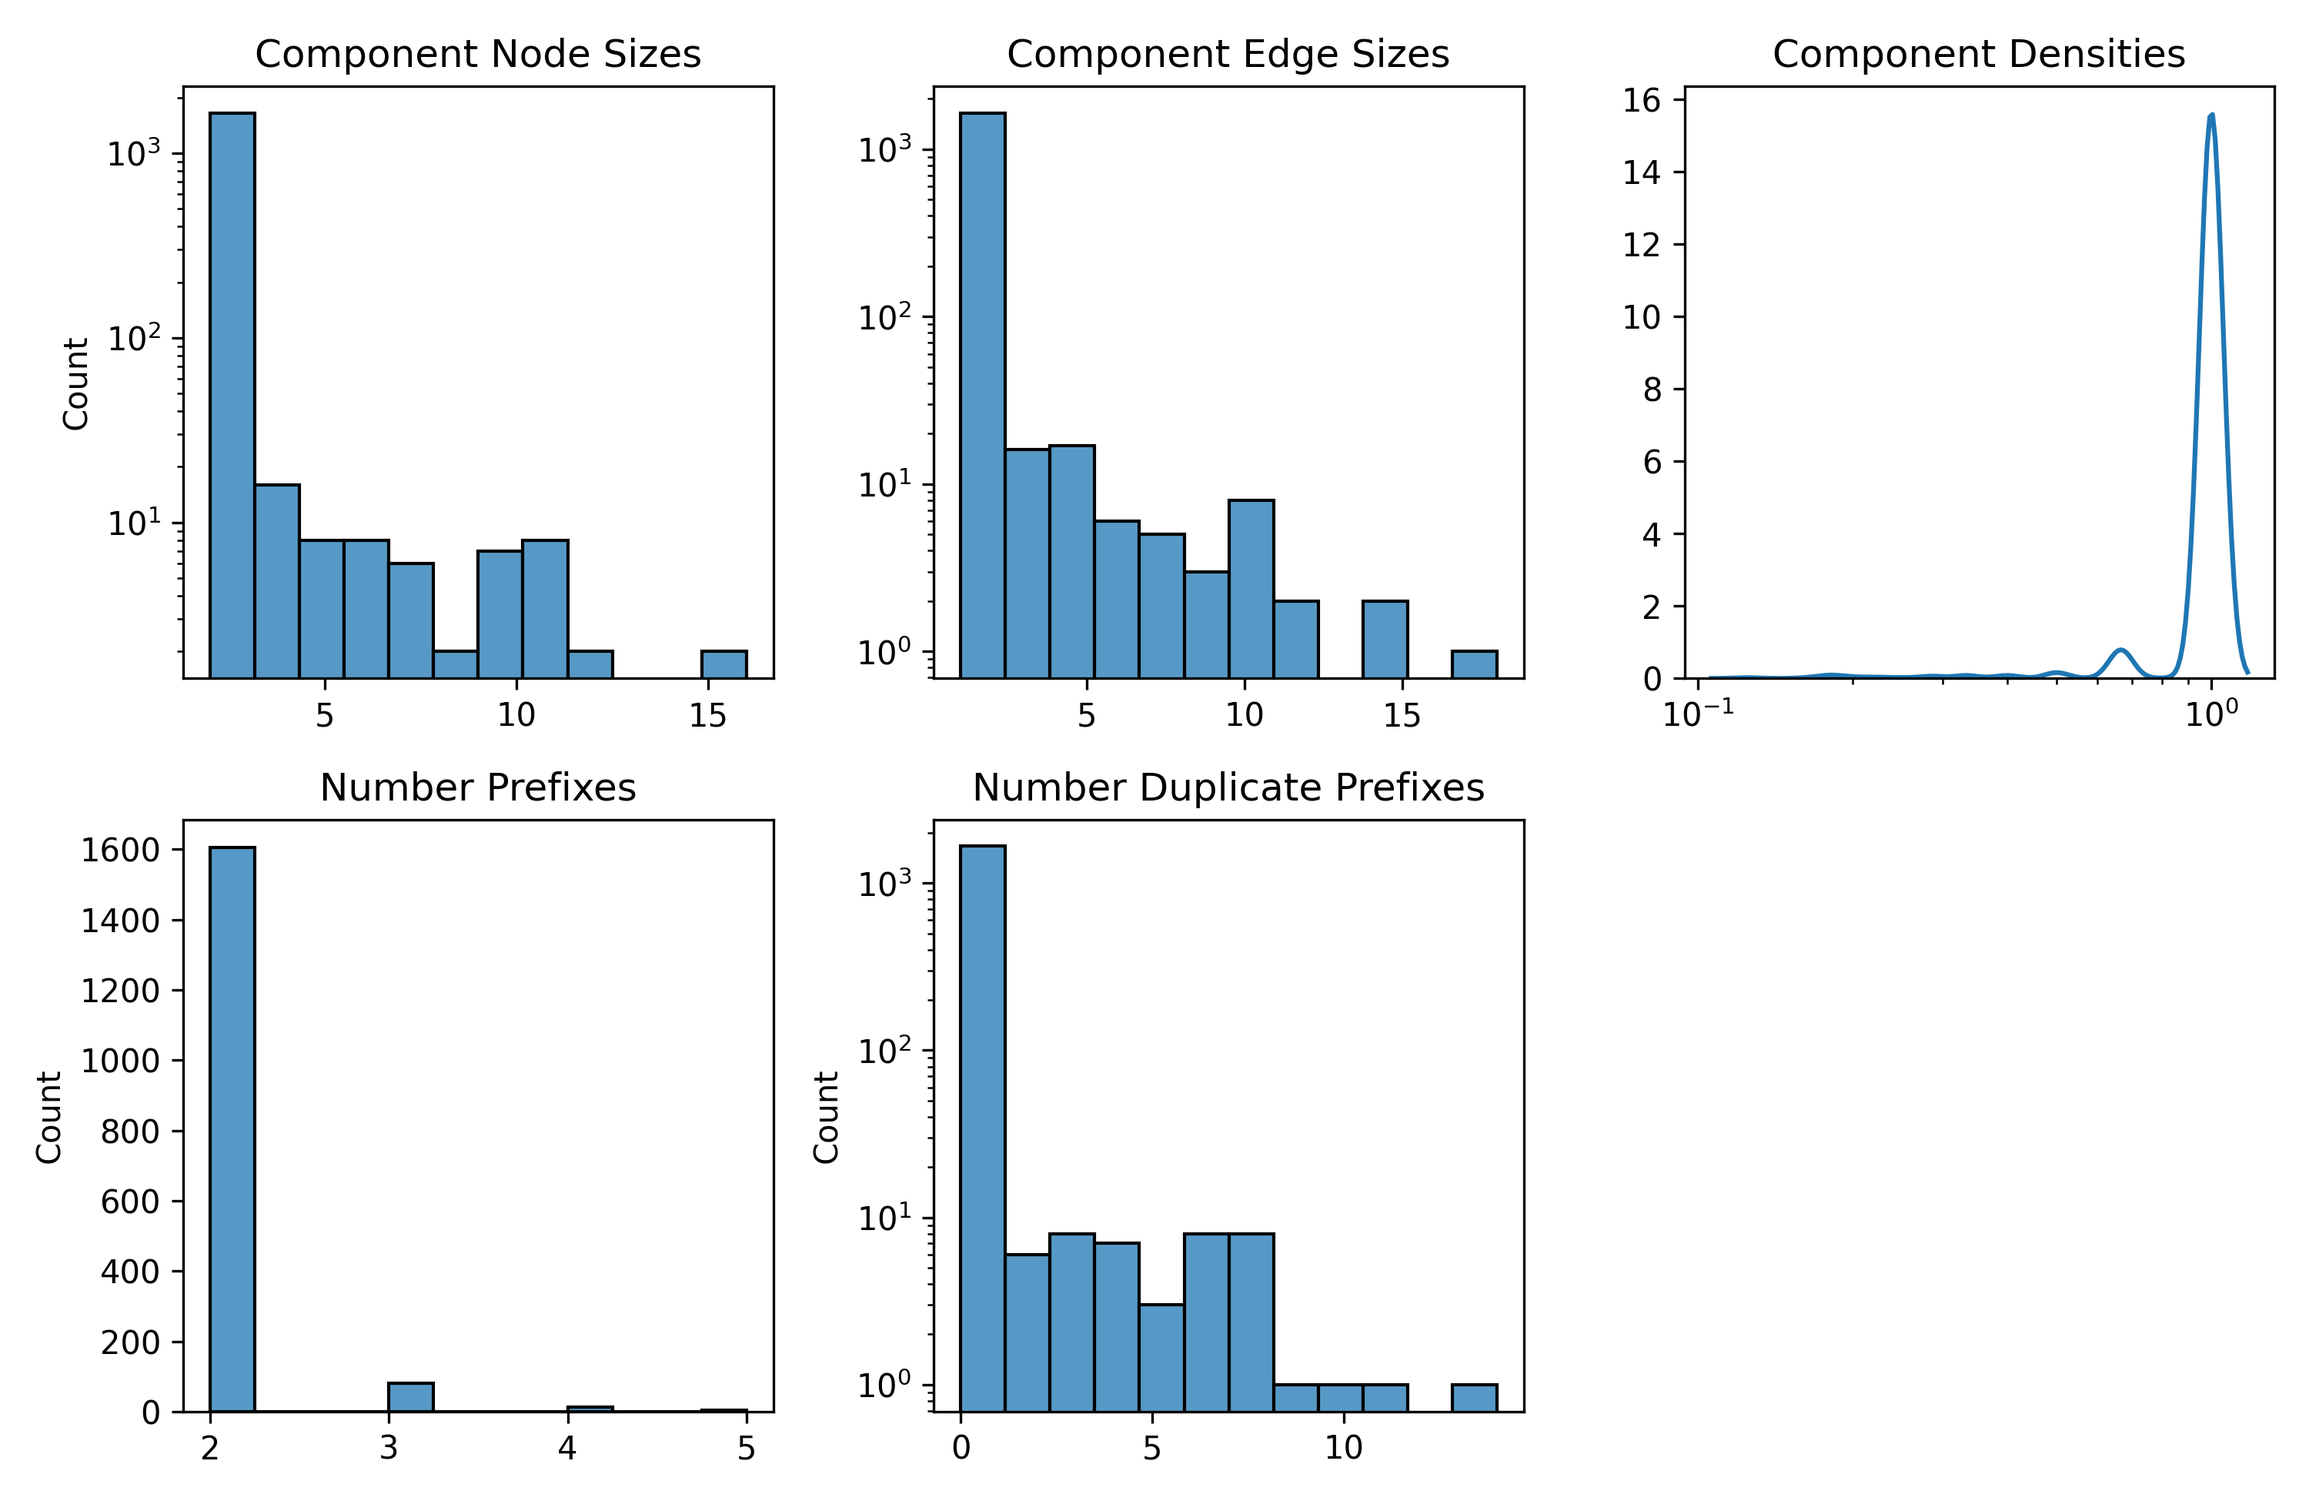
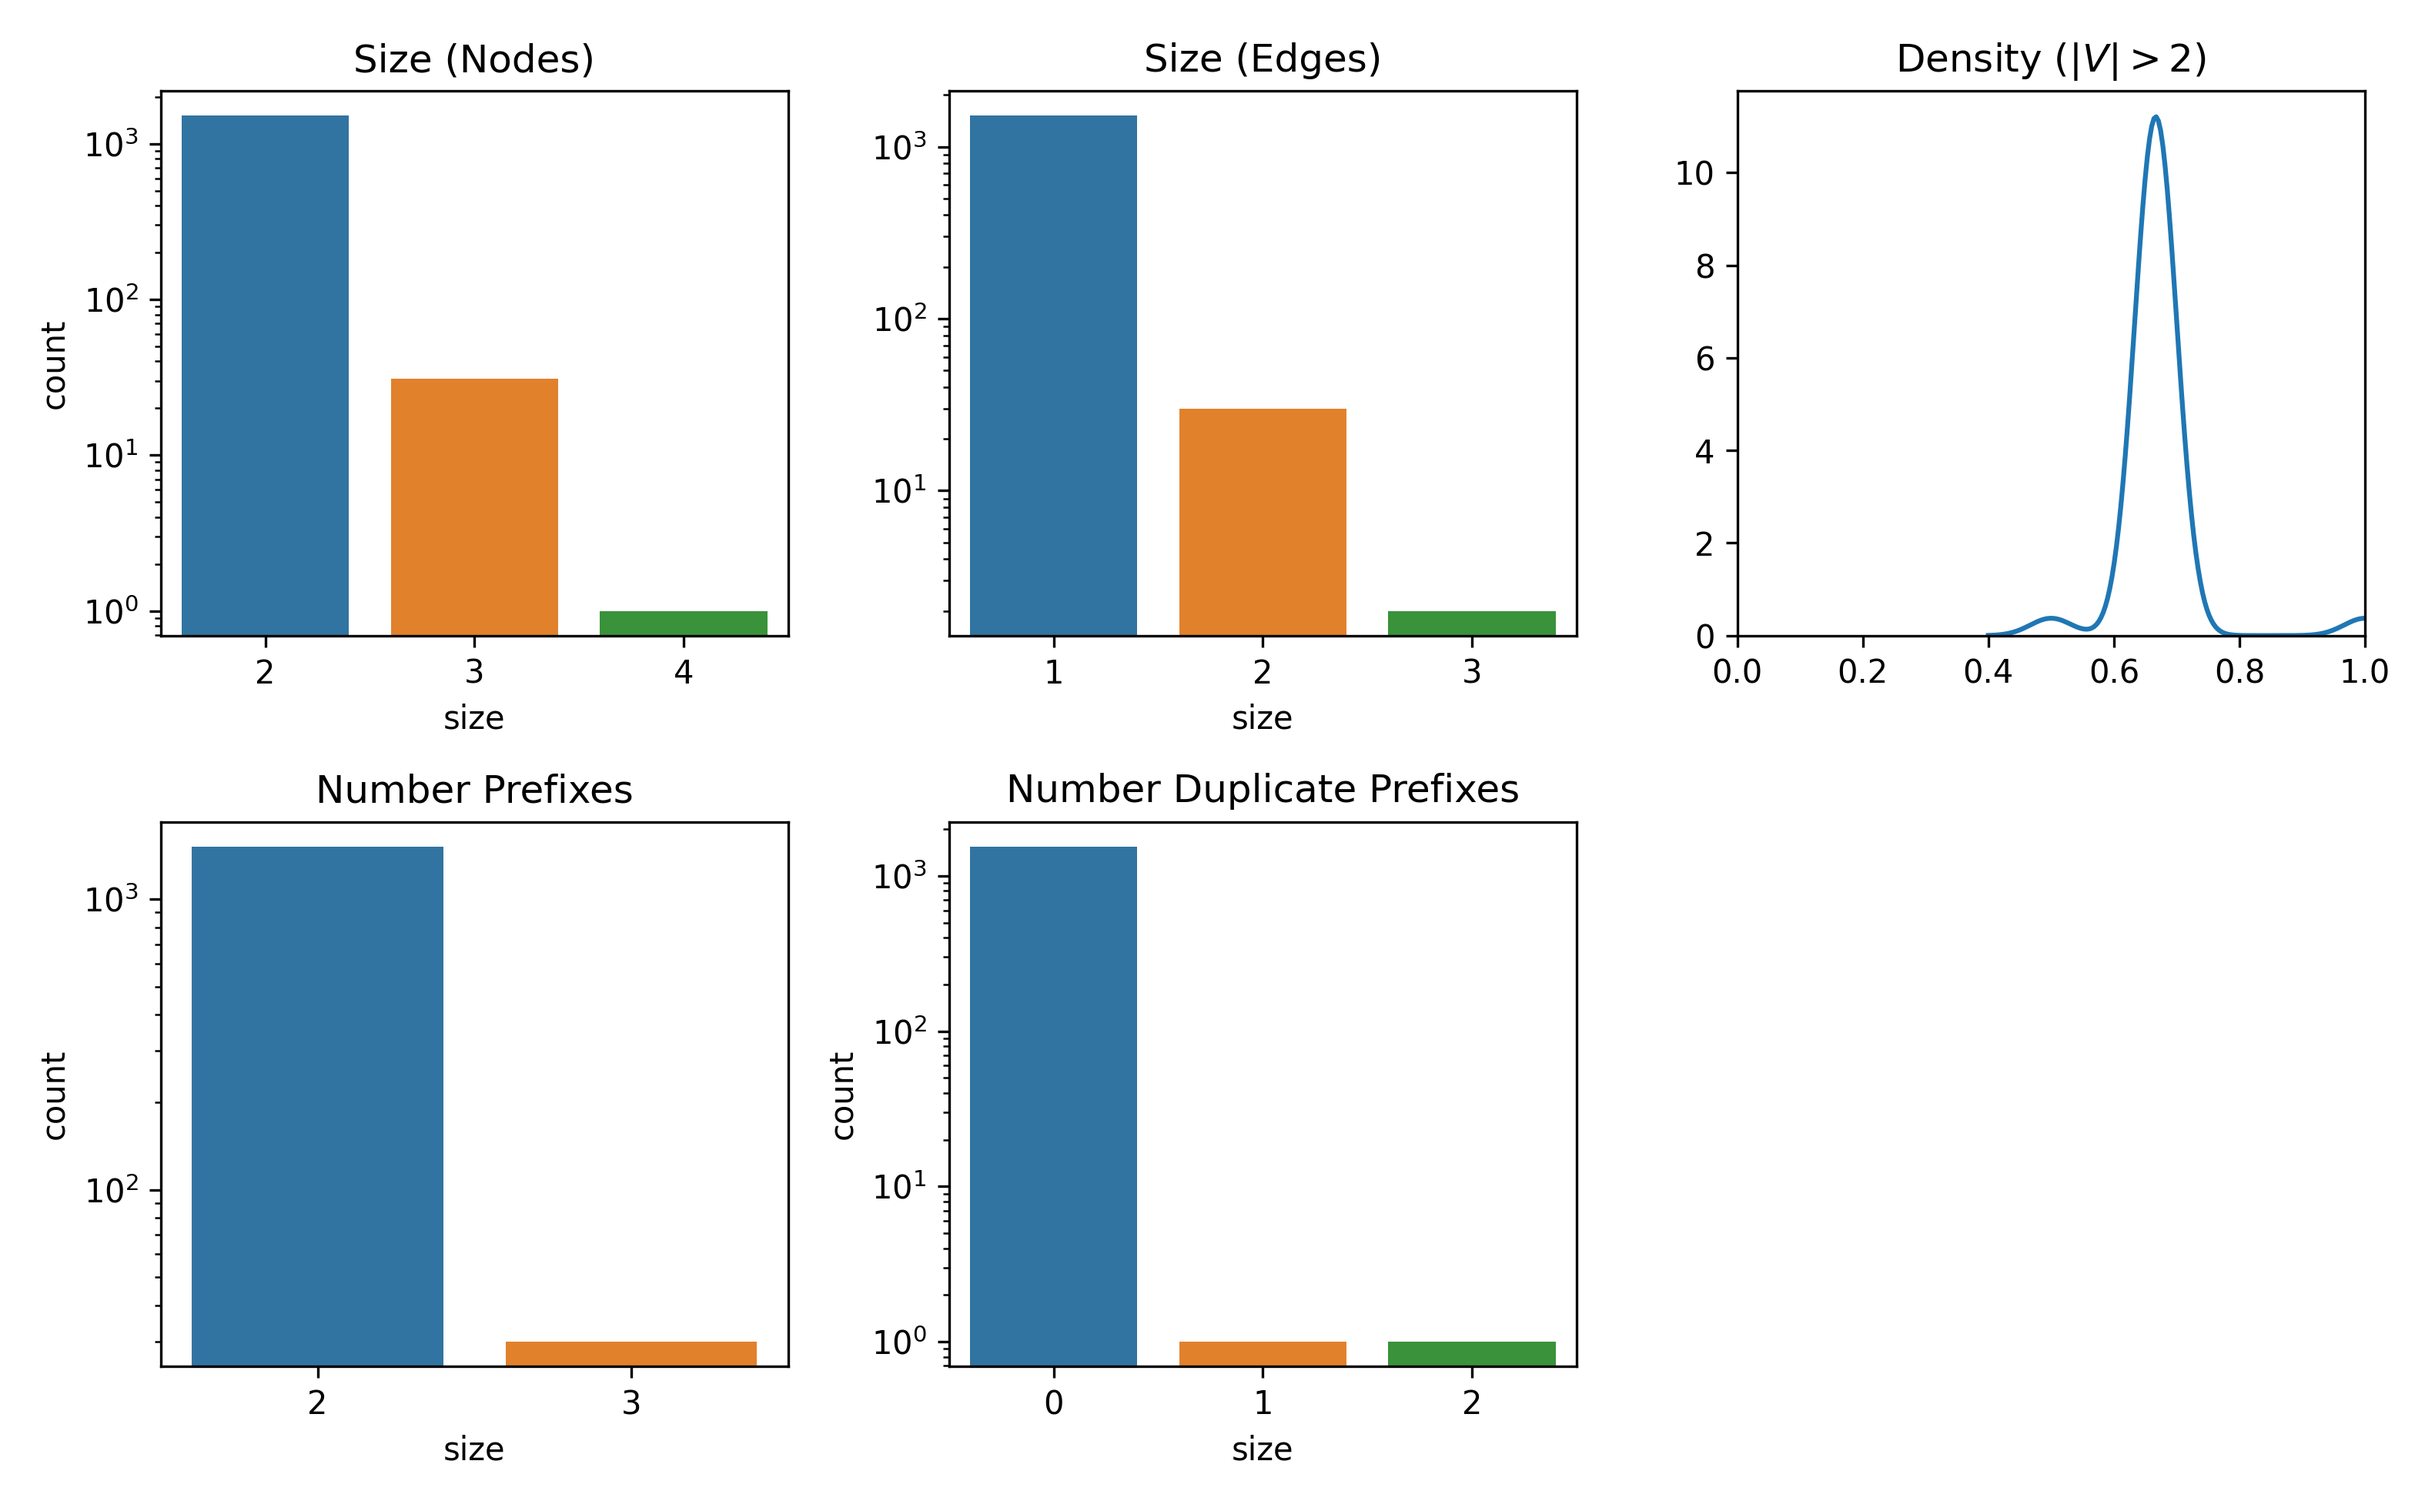
Update export script

Changed region(s): [[0.0, 0.0308, 0.651, 0.9846], [0.682, 0.0308, 0.992, 0.4923], [0.868, 0.0923, 0.899, 0.2462]]

diff --git a/src/biomappings/graph.py b/src/biomappings/graph.py
@@ -3,34 +3,54 @@
 """Load Biomappings as a graph."""
 
 import os
-from typing import Iterable, Mapping
+from collections import Counter
+from typing import Iterable, List, Mapping, Optional, Sequence
 
 import click
 import networkx as nx
+import yaml
 
 from biomappings.resources import load_false_mappings, load_mappings
-from biomappings.utils import IMG, MiriamValidator
+from biomappings.utils import DATA, IMG, MiriamValidator
 
 
-def get_true_graph() -> nx.Graph:
+def get_true_graph(include: Optional[Sequence[str]] = None, exclude: Optional[Sequence[str]] = None) -> nx.Graph:
     """Get a graph of the true mappings."""
-    return _graph_from_mappings(load_mappings())
+    return _graph_from_mappings(load_mappings(), include=include, exclude=exclude)
 
 
-def get_false_graph() -> nx.Graph:
+def get_false_graph(include: Optional[Sequence[str]] = None, exclude: Optional[Sequence[str]] = None) -> nx.Graph:
     """Get a graph of the false mappings."""
-    return _graph_from_mappings(load_false_mappings())
+    return _graph_from_mappings(load_false_mappings(), include=include, exclude=exclude)
 
 
-def get_predictions_graph() -> nx.Graph:
+def get_predictions_graph(include: Optional[Sequence[str]] = None, exclude: Optional[Sequence[str]] = None) -> nx.Graph:
     """Get a graph of the predicted mappings."""
-    return _graph_from_mappings(load_false_mappings())
+    return _graph_from_mappings(load_false_mappings(), include=include, exclude=exclude)
 
 
-def _graph_from_mappings(mappings: Iterable[Mapping[str, str]]) -> nx.Graph:
+def _graph_from_mappings(
+    mappings: Iterable[Mapping[str, str]],
+    include: Optional[Sequence[str]] = None,
+    exclude: Optional[Sequence[str]] = None,
+) -> nx.Graph:
     v = MiriamValidator()
     graph = nx.Graph()
+
+    if include is not None:
+        include = set(include)
+        print('only including', *include)
+    if exclude is not None:
+        exclude = set(exclude)
+        print('excluding', *exclude)
+
     for mapping in mappings:
+        relation = mapping['relation']
+        if exclude and (relation in exclude):
+            continue
+        if include and (relation not in include):
+            continue
+
         source_curie = v.get_curie(mapping['source prefix'], mapping['source identifier'])
         graph.add_node(
             source_curie,
@@ -48,6 +68,7 @@ def _graph_from_mappings(mappings: Iterable[Mapping[str, str]]) -> nx.Graph:
         graph.add_edge(
             source_curie,
             target_curie,
+            relation=relation,
             provenance=mapping['source'],
             type=mapping['type'],
         )
@@ -60,55 +81,88 @@ def charts():
     import matplotlib.pyplot as plt
     import seaborn as sns
 
-    graph = get_true_graph()
-    node_sizes, edge_sizes, densities, n_prefixes = [], [], [], []
+    graph = get_true_graph(include=['skos:exactMatch'])
+    component_node_sizes, component_edge_sizes, component_densities, component_number_prefixes = [], [], [], []
+    # prefix_list = []
+    components_with_duplicate_prefixes = []
+
     n_duplicates = []
-    for c in nx.connected_components(graph):
-        node_sizes.append(len(c))
-        sg = graph.subgraph(c)
-        edge_sizes.append(sg.number_of_edges())
-        densities.append(nx.density(sg))
+    for component in nx.connected_components(graph):
+        component = graph.subgraph(component)
+
+        node_size = component.number_of_nodes()
+        component_node_sizes.append(node_size)
+        component_edge_sizes.append(component.number_of_edges())
+
+        if node_size > 2:
+            component_densities.append(nx.density(component))
+
         prefixes = [
             graph.nodes[node]['prefix']
-            for node in c
+            for node in component
         ]
+        # prefix_list.extend(prefixes)
         unique_prefixes = len(set(prefixes))
-        n_prefixes.append(unique_prefixes)
-        n_duplicates.append(len(prefixes) - unique_prefixes)
+        component_number_prefixes.append(unique_prefixes)
+        _n_duplicates = len(prefixes) - unique_prefixes
+        n_duplicates.append(_n_duplicates)
+        if _n_duplicates:
+            components_with_duplicate_prefixes.append([
+                data
+                for _node, data in component.nodes(data=True)
+            ])
 
-    fig, axes = plt.subplots(2, 3, figsize=(10, 6.5))
+    with open(os.path.join(DATA, 'components_with_duplicate_prefixes.yml'), 'w') as file:
+        yaml.safe_dump(components_with_duplicate_prefixes, file)
 
-    sns.histplot(node_sizes, ax=axes[0][0])
+    fig, axes = plt.subplots(2, 3, figsize=(10.5, 6.5))
+
+    _countplot_list(component_node_sizes, ax=axes[0][0])
     axes[0][0].set_yscale('log')
-    axes[0][0].set_title('Component Node Sizes')
+    axes[0][0].set_title('Size (Nodes)')
 
-    sns.histplot(edge_sizes, ax=axes[0][1])
+    _countplot_list(component_edge_sizes, ax=axes[0][1])
     axes[0][1].set_yscale('log')
-    axes[0][1].set_title('Component Edge Sizes')
+    axes[0][1].set_title('Size (Edges)')
     axes[0][1].set_ylabel('')
 
-    sns.kdeplot(densities, ax=axes[0][2], log_scale=True)
-    # axes[2].set_xlim([0.0, 1.0])
-    axes[0][2].set_title('Component Densities')
+    sns.kdeplot(component_densities, ax=axes[0][2])
+    axes[0][2].set_xlim([0.0, 1.0])
+    # axes[0][2].set_yscale('log')
+    axes[0][2].set_title('Density ($|V| > 2$)')
     axes[0][2].set_ylabel('')
 
-    sns.histplot(n_prefixes, ax=axes[1][0])
+    _countplot_list(component_number_prefixes, ax=axes[1][0])
     axes[1][0].set_title('Number Prefixes')
-
+    axes[1][0].set_yscale('log')
     # has duplicate prefix in component
 
-    sns.histplot(n_duplicates, ax=axes[1][1])
+    _countplot_list(n_duplicates, ax=axes[1][1])
     axes[1][1].set_yscale('log')
     axes[0][2].set_ylabel('')
     axes[1][1].set_title('Number Duplicate Prefixes')
 
     axes[1][2].axis('off')
+    # sns.countplot(y=prefix_list, ax=axes[1][2], order=[k for k, _ in Counter(prefix_list).most_common()])
+    # axes[1][2].set_xscale('log')
+    # axes[1][2].set_title('Prefix Frequency')
 
     path = os.path.join(IMG, 'components.png')
     print('saving to', path)
     plt.tight_layout()
     plt.savefig(path, dpi=300)
     plt.close(fig)
+
+
+def _countplot_list(data: List[int], ax):
+    import pandas as pd
+    import seaborn as sns
+    counter = Counter(data)
+    for size in range(min(counter), max(counter)):
+        if size not in counter:
+            counter[size] = 0
+    df = pd.DataFrame(counter.items(), columns=['size', 'count']).sort_values('size').reset_index()
+    sns.barplot(data=df, x='size', y='count', ax=ax)
 
 
 if __name__ == '__main__':

diff --git a/src/biomappings/summary.py b/src/biomappings/summary.py
@@ -19,9 +19,9 @@ __all__ = [
 def export():
     """Create export data file."""
     from biomappings.resources import load_mappings, load_predictions, load_false_mappings
+    from biomappings.utils import DATA
 
-    here = os.path.abspath(os.path.dirname(__file__))
-    path = os.path.join(here, os.pardir, os.pardir, 'docs', '_data', 'summary.yml')
+    path = os.path.join(DATA, 'summary.yml')
 
     true_mappings = load_mappings()
     false_mappings = load_false_mappings()

diff --git a/src/biomappings/utils.py b/src/biomappings/utils.py
@@ -11,7 +11,9 @@ import requests
 
 HERE = os.path.dirname(os.path.abspath(__file__))
 RESOURCE_PATH = os.path.abspath(os.path.join(HERE, 'resources'))
-IMG = os.path.abspath(os.path.join(HERE, os.pardir, os.pardir, 'docs', 'img'))
+DOCS = os.path.abspath(os.path.join(HERE, os.pardir, os.pardir, 'docs'))
+IMG = os.path.join(DOCS, 'img')
+DATA = os.path.join(DOCS, '_data')
 
 
 def get_git_hash() -> Optional[str]:

diff --git a/docs/download.md b/docs/download.md
@@ -1,0 +1,46 @@
+---
+layout: page
+title: Download
+permalink: /download/
+---
+The biomappings database can be downloaded directly
+from [GitHub](https://github.com/biomappings/biomappings/tree/master/src/biomappings/resources).
+
+## License
+
+The manually curated portions of these data are available under the
+[CC0 1.0 Universal License](https://github.com/biomappings/biomappings/blob/master/LICENSE).
+
+## Programmatic Access
+
+
+There are three main functions exposed from `biomappings`. Each loads a list of dictionaries with the mappings in each.
+
+```python
+import biomappings
+
+true_mappings = biomappings.load_mappings()
+
+false_mappings = biomappings.load_false_mappings()
+
+predictions = biomappings.load_predictions()
+```
+
+Alternatively, you can use the above links to the TSVs on GitHub in with the library or programming language of your
+choice.
+
+The data can also be loaded as [networkx](https://networkx.org/) graphs with the following functions:
+
+```python
+import biomappings
+
+true_graph = biomappings.get_true_graph()
+
+false_graph = biomappings.get_false_graph()
+
+predictions_graph = biomappings.get_predictions_graph()
+```
+
+The source code can be found at
+[https://github.com/biomappings/biomappings](https://github.com/biomappings/biomappings).
+It is licensed under the MIT License.

diff --git a/docs/summary.md b/docs/summary.md
@@ -1,0 +1,29 @@
+---
+layout: page title: Summary permalink: /summary/
+---
+
+## Component Summaries
+
+An undirected graph can be generated from equivalences in which all entities in a component can be considered equivalent
+due to the transitivity of the relationship.
+
+This chart shows various aspects of the positive mappings graph. Larger components means that more extensive curation
+has been done. Higher density components means that they have been checked multiple times.
+
+<img src="https://raw.githubusercontent.com/biomappings/biomappings/master/docs/img/components.png" alt="Comparison"/>
+
+## Curation Warnings
+
+### Duplicate Prefixes
+
+<ul>
+{% for entry in site.data.components_with_duplicate_prefixes %}
+    <li><ul>
+    {% for x in entry %}
+        <li>
+            {{ entry.name }} ({{entry.identifier}})
+        </li>
+    {% endfor %}
+    </ul></li>
+{% endfor %}
+</ul>
